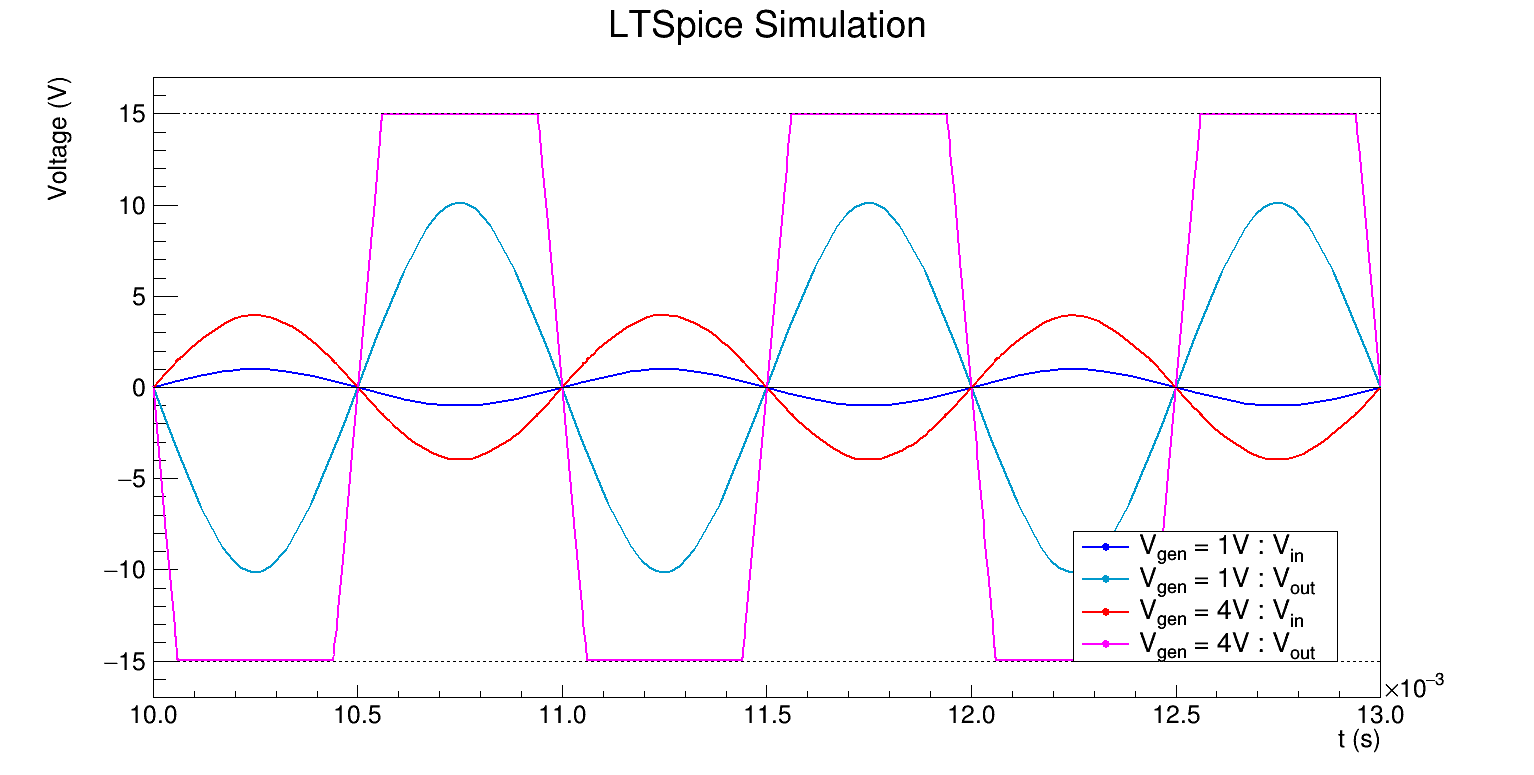
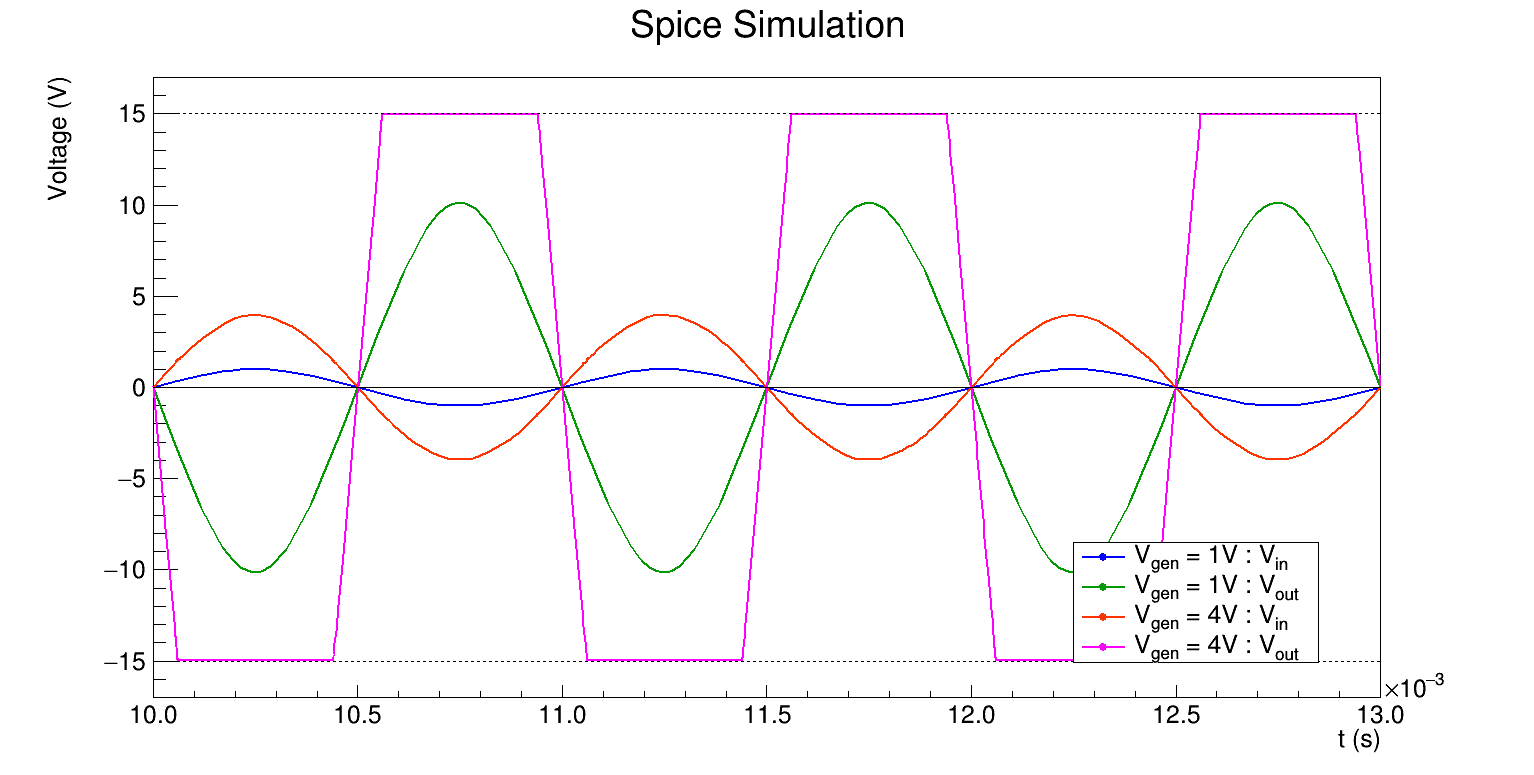
Simulation Updates

diff --git a/AMPLIFICATORI OPERAZIONALI/ROOT macros/opamp_simulation_eda.cpp b/AMPLIFICATORI OPERAZIONALI/ROOT macros/opamp_simulation_eda.cpp
@@ -85,16 +85,16 @@ void opamp_simulation_eda() {
     plot_Vin-> SetMarkerColor(kBlue);
     plot_Vin-> SetMarkerSize(1);
 
-    plot_Vout-> SetLineColor(kAzure+9);
+    plot_Vout-> SetLineColor(kGreen+2);
     plot_Vout-> SetLineWidth(2);
     plot_Vout-> SetMarkerStyle(20);
-    plot_Vout-> SetMarkerColor(kAzure+9);
+    plot_Vout-> SetMarkerColor(kGreen+2);
     plot_Vout-> SetMarkerSize(1);
 
-    plot_Vin_sat-> SetLineColor(kRed);
+    plot_Vin_sat-> SetLineColor(kOrange+10);
     plot_Vin_sat-> SetLineWidth(2);
     plot_Vin_sat-> SetMarkerStyle(20);
-    plot_Vin_sat-> SetMarkerColor(kRed);
+    plot_Vin_sat-> SetMarkerColor(kOrange+10);
     plot_Vin_sat-> SetMarkerSize(1);
 
     plot_Vout_sat-> SetLineColor(kMagenta);
@@ -105,7 +105,7 @@ void opamp_simulation_eda() {
 
     mg->Draw("AL");
 
-    mg->SetTitle("LTSpice Simulation; t (s); Voltage (V)");
+    mg->SetTitle("Spice Simulation; t (s); Voltage (V)");
 
     settings_plot(plot_Vin, XMIN, XMAX, YMIN, YMAX);
     settings_plot(plot_Vout, XMIN, XMAX, YMIN, YMAX);
